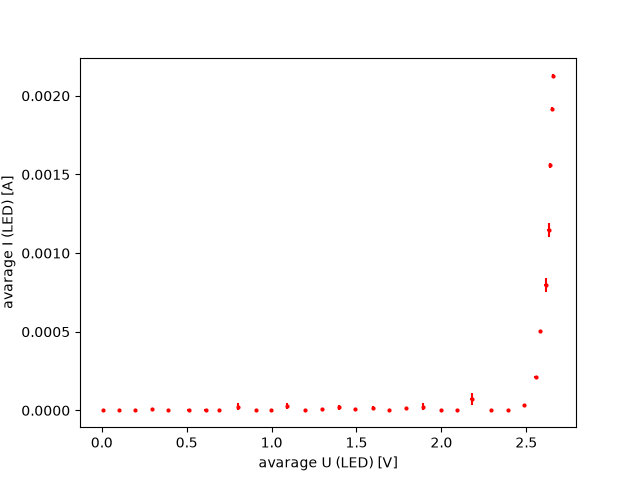
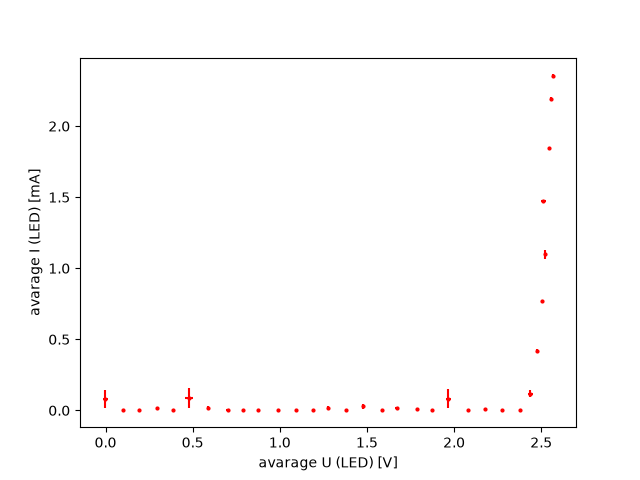
update list sli (23.11)(13:37)

diff --git a/src/pythondaq/cli.py b/src/pythondaq/cli.py
@@ -21,21 +21,29 @@ def cmd_group():
 
 
 @cmd_group.command()
-
 # @click.option("-d", "--diode")
 def list():
-    print("Work in progress, list devices")
-
+    list_ind = list_resources() 
+    return list_ind
 
 @cmd_group.command()
 
+@click.argument("port_")
+
+def info(port_):
+    device = ArduinoVISADevice(port=port_)
+    print(device.get_identification())
+
+@cmd_group.command()
+@click.argument("port__")
 @click.option("-o", "--output")
 @click.option("-ra", "--range_", type=float)
 @click.option("-re", "--repeat", type=int, default=1)
 @click.option("-st","--steps",type=float, default=0.1)
 
-def scan(output, range_, repeat, steps):
-    device = ArduinoVISADevice(port="ASRL/dev/cu.usbmodem14101::INSTR")
+
+def scan(port__, output, range_, repeat, steps):
+    device = ArduinoVISADevice(port=port__)
 
     list_mean_U=[]
     list_mean_I=[]
